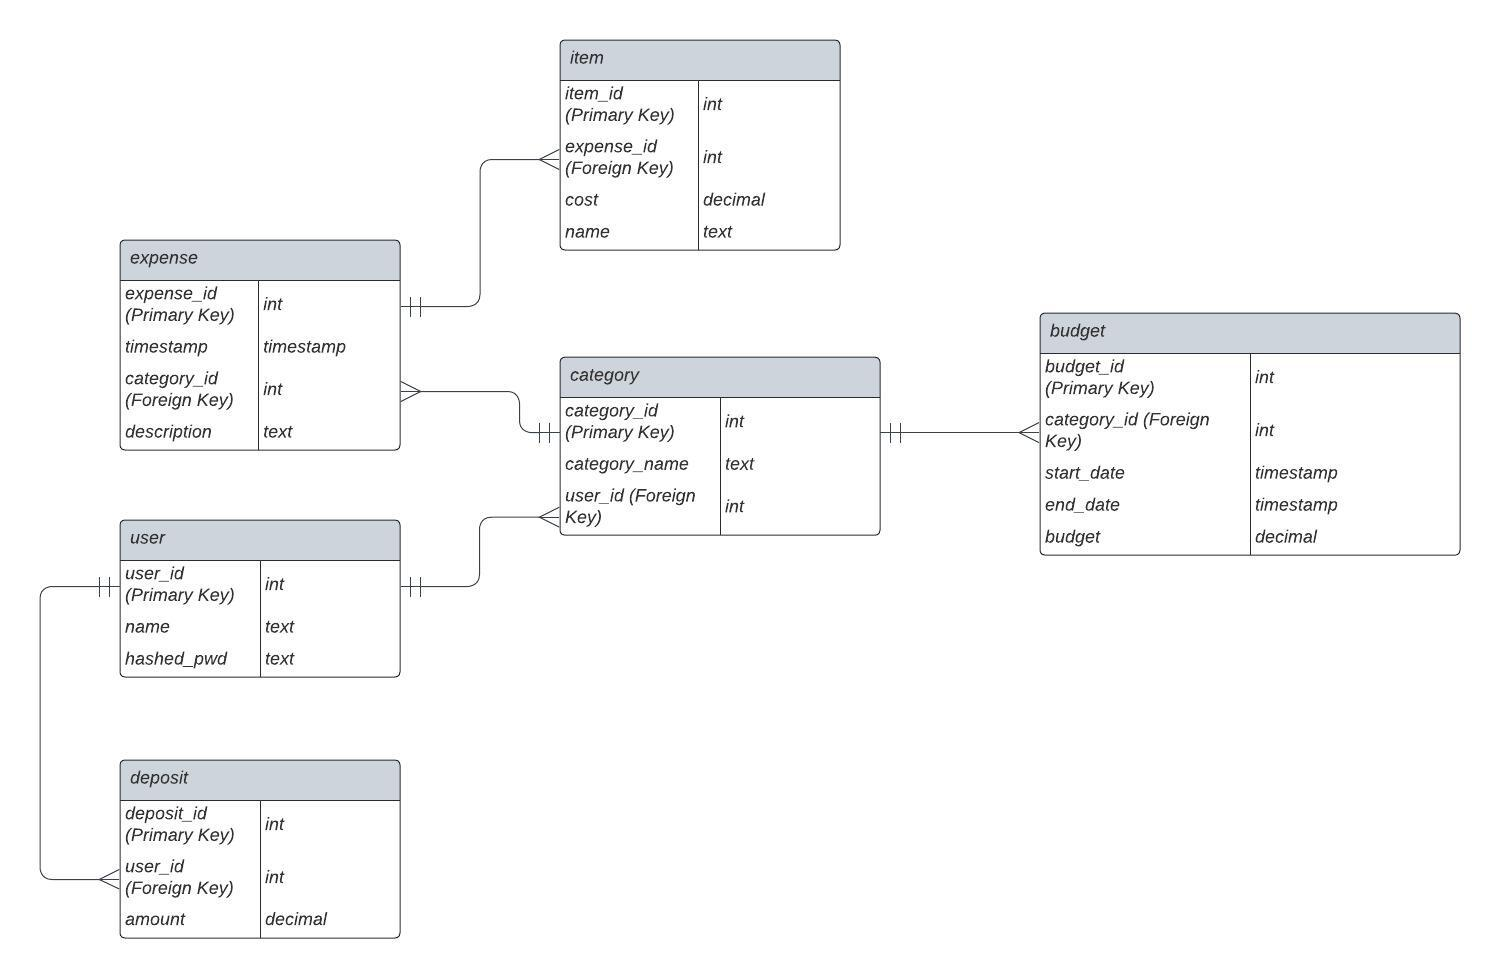
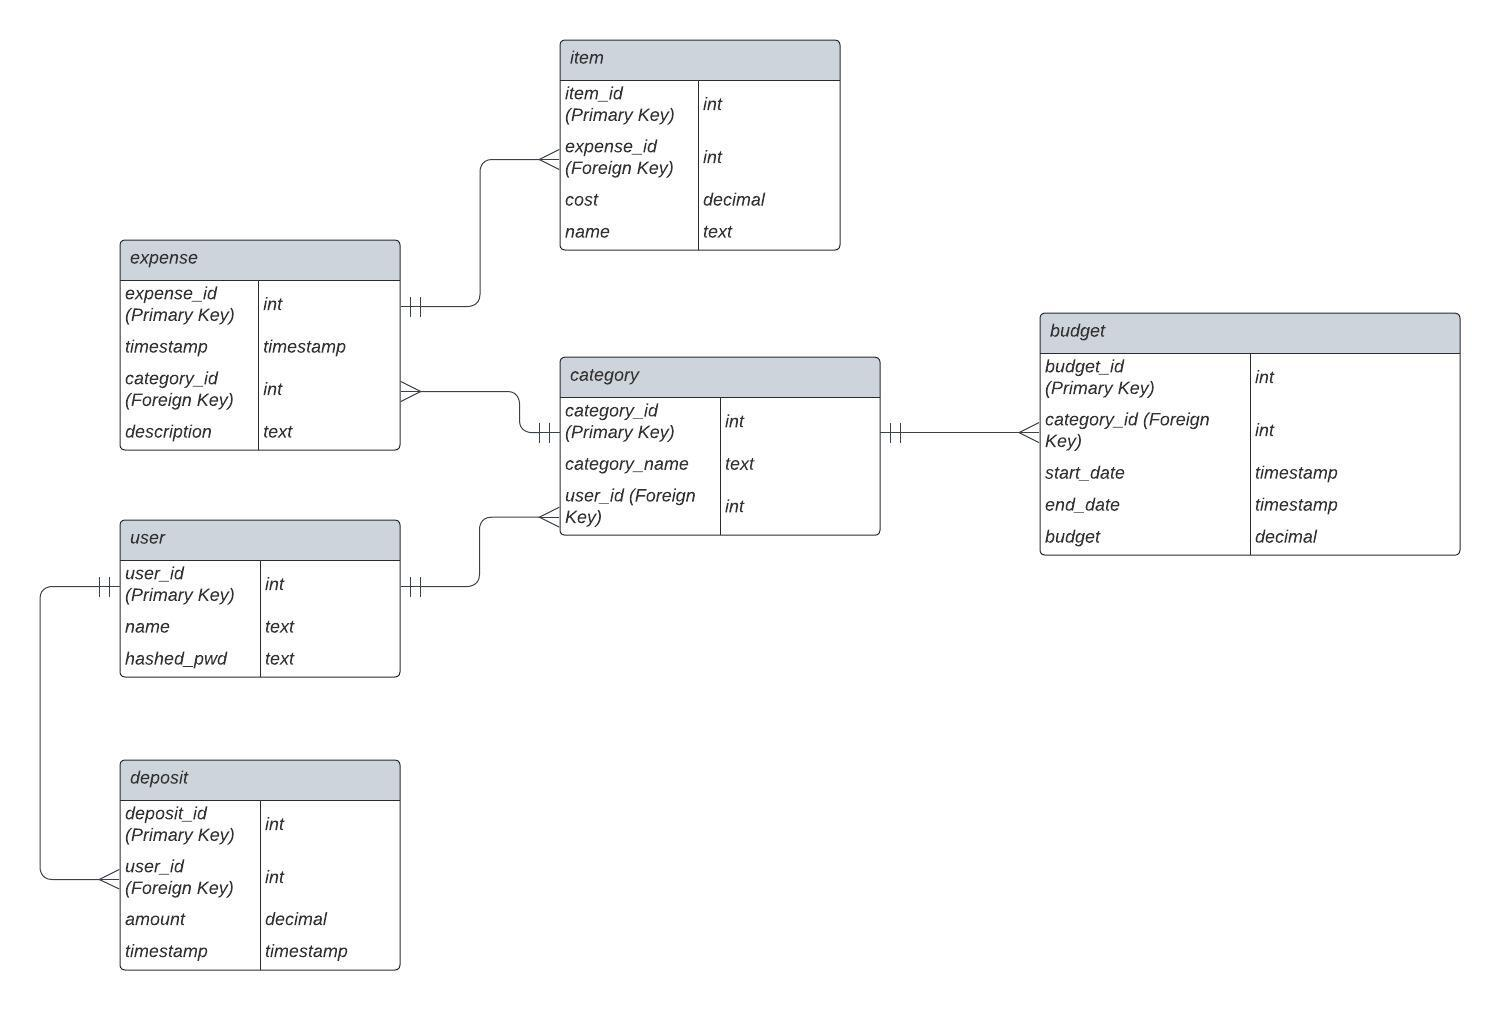
Updated users and passwords

diff --git a/src/api/users.py b/src/api/users.py
@@ -1,24 +1,50 @@
 import sqlalchemy
-from fastapi import APIRouter, HTTPException
+from fastapi import APIRouter, HTTPException, Query
 from pydantic import BaseModel
 
 from src import database as db
+from src.sql_utils import username_unique
 
 router = APIRouter()
 
 
 @router.get("/users/", tags=["users"])
-def list_users():
+def list_users(
+    name: str = "",
+    limit: int = Query(50, ge=1, le=250),
+    offset: int = Query(0, ge=0),
+):
     """
     This endpoint returns the information associated with all users.
     For each user it returns:
 
     - `user_id`: the ID of the user
     - `name`: the name of the user
+
+    You can filter for users whose name contain a string by using the
+    `name` query parameter.
+
+    The `limit` and `offset` query
+    parameters are used for pagination. The `limit` query parameter specifies the
+    maximum number of results to return. The `offset` query parameter specifies the
+    number of results to skip before returning results.
     """
     with db.engine.connect() as conn:
+        query = 'SELECT user_id, name FROM "user"'
+        parameters = {
+            "limit": limit,
+            "offset": offset
+        }
+        if name != "":
+            query += 'WHERE name like :name '
+            parameters["name"] = name
+
+        query += 'LIMIT :limit ' \
+                 'OFFSET :offset'
+
         users = conn.execute(
-            sqlalchemy.text('SELECT * FROM "user"')
+            sqlalchemy.text(query),
+            parameters
         ).fetchall()
     return [
         {
@@ -40,8 +66,9 @@ def get_user(user_id: int):
     """
     with db.engine.connect() as conn:
         user = conn.execute(
-            sqlalchemy.text('SELECT * FROM "user" WHERE user_id = :user_id'),
-            [{"user_id": user_id}]
+            sqlalchemy.text('SELECT user_id, name FROM "user" '
+                            'WHERE user_id = :user_id'),
+            {"user_id": user_id}
         ).fetchone()
         if user is None:
             raise HTTPException(status_code=404, detail="user not found.")
@@ -65,17 +92,21 @@ def create_user(user: UserJson):
 
     Returns the user's ID and name if successful.
     """
+    if not username_unique(user.name):
+        raise HTTPException(status_code=404, detail="name already taken")
+
     with db.engine.connect() as conn:
-        inserted_user = conn.execute(
-            sqlalchemy.text(
-                'INSERT INTO "user" (name) VALUES (:name, crypt(\':password\', gen_salt(\'bf\'))) RETURNING user_id'
-            ),
-            [{"name": user.name,
-             "password": user.password}]
-        )
-        user_id = inserted_user.fetchone().user_id
-        conn.commit()
+        with conn.begin():
+            inserted_user = conn.execute(
+                sqlalchemy.text(
+                    'INSERT INTO "user" (name, hashed_pwd) VALUES '
+                    '(:name, extensions.crypt(:password, extensions.gen_salt(\'bf\'))) RETURNING user_id'
+                ),
+                [{"name": user.name,
+                 "password": user.password}]
+            )
+            user_id = inserted_user.fetchone().user_id
     return {
         "user_id": user_id,
-        "user_name": user.name,
+        "name": user.name,
     }

diff --git a/tst/test_users.py b/tst/test_users.py
@@ -1,3 +1,5 @@
+import uuid
+
 from fastapi.testclient import TestClient
 
 from src.api.server import app
@@ -11,9 +13,19 @@ def test_users():
 
 
 def test_users_by_id():
-    response = client.get("/users/9/")
+    name = str(uuid.uuid4())
+    data = {
+        "name": name,
+        "password": "test"
+    }
+
+    postResponse = client.post("/users/", json=data)
+    assert postResponse.status_code == 200
+    user_id = postResponse.json()["user_id"]
+
+    response = client.get(f"/users/{user_id}/")
     assert response.status_code == 200
-    assert response.json() == {"user_id": 9, "name": "testing"}
+    assert response.json() == {"user_id": user_id, "name": name}
 
 
 def test_users_by_id2():
@@ -22,12 +34,30 @@ def test_users_by_id2():
     assert response.json() == {"detail": "user not found."}
 
 
-def test_basic_user_post():
+def test_list_users():
+    name = str(uuid.uuid4())
     data = {
-        "name": "test_user"
+        "name": name,
+        "password": "test"
+    }
+
+    postResponse = client.post("/users/", json=data)
+    assert postResponse.status_code == 200
+    user_id = postResponse.json()["user_id"]
+
+    response = client.get(f"/users/?name={name}&limit=1&offset=0")
+    assert response.status_code == 200
+    assert response.json() == [{"user_id": user_id, "name": name}]
+
+
+def test_basic_user_post():
+    name = str(uuid.uuid4())
+    data = {
+        "name": name,
+        "password": "test"
     }
 
     postResponse = client.post("/users/", json=data)
     assert postResponse.status_code == 200
     assert "user_id" in postResponse.json()
-    assert postResponse.json()["user_name"] == "test_user"
+    assert postResponse.json()["name"] == name

diff --git a/src/sql_utils.py b/src/sql_utils.py
@@ -40,3 +40,35 @@ def get_category(user_id: int, budget_category_id: int):
             raise HTTPException(
                 status_code=404, detail="budget category not found.")
     return category_user
+
+
+def username_unique(name: str):
+    with db.engine.connect() as conn:
+        users = conn.execute(
+            sqlalchemy.text('''
+            SELECT user_id from "user"
+            WHERE name = :name
+            '''),
+            {
+                "name": name
+            }
+        ).fetchall()
+        return len(users) == 0
+
+
+def authenticate(user_id: int, password: str):
+    with db.engine.connect() as conn:
+        users = conn.execute(
+            sqlalchemy.text('''
+            SELECT user_id from "user"
+            WHERE user_id = :user_id
+            AND hashed_pwd = extensions.crypt(:password, hashed_pwd)
+            '''),
+            {
+                "user_id": user_id,
+                "password": password
+            }
+        ).fetchall()
+        if len(users) != 1:
+            raise HTTPException(status_code=401, detail="password incorrect")
+

diff --git a/alembic/versions/848867feedf3_v2.py b/alembic/versions/848867feedf3_v2.py
@@ -17,7 +17,7 @@ depends_on = None
 
 
 def upgrade() -> None:
-    op.execute("CREATE EXTENSION pgcrypto;")
+    op.execute("CREATE EXTENSION IF NOT EXISTS pgcrypto;")
     op.create_table(
         "user",
         sa.Column("user_id", sa.BIGINT, autoincrement=True, primary_key=True),
@@ -56,7 +56,8 @@ def upgrade() -> None:
         "deposit",
         sa.Column("deposit_id", sa.BIGINT, autoincrement=True, primary_key=True),
         sa.Column("user_id", sa.BIGINT, ForeignKey("user.user_id", ondelete="CASCADE"), nullable=False),
-        sa.Column("amount", sa.DECIMAL, nullable=False)
+        sa.Column("amount", sa.DECIMAL, nullable=False),
+        sa.Column("timestamp", sa.TIMESTAMP, nullable=False),
     )
 
 
